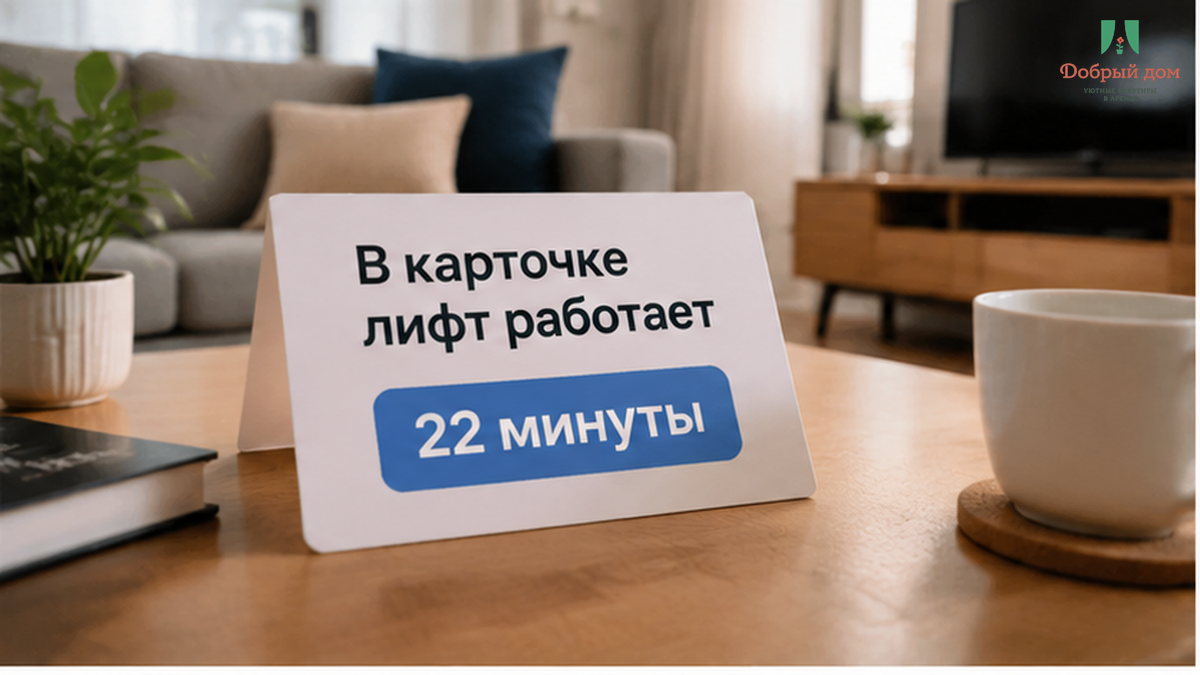
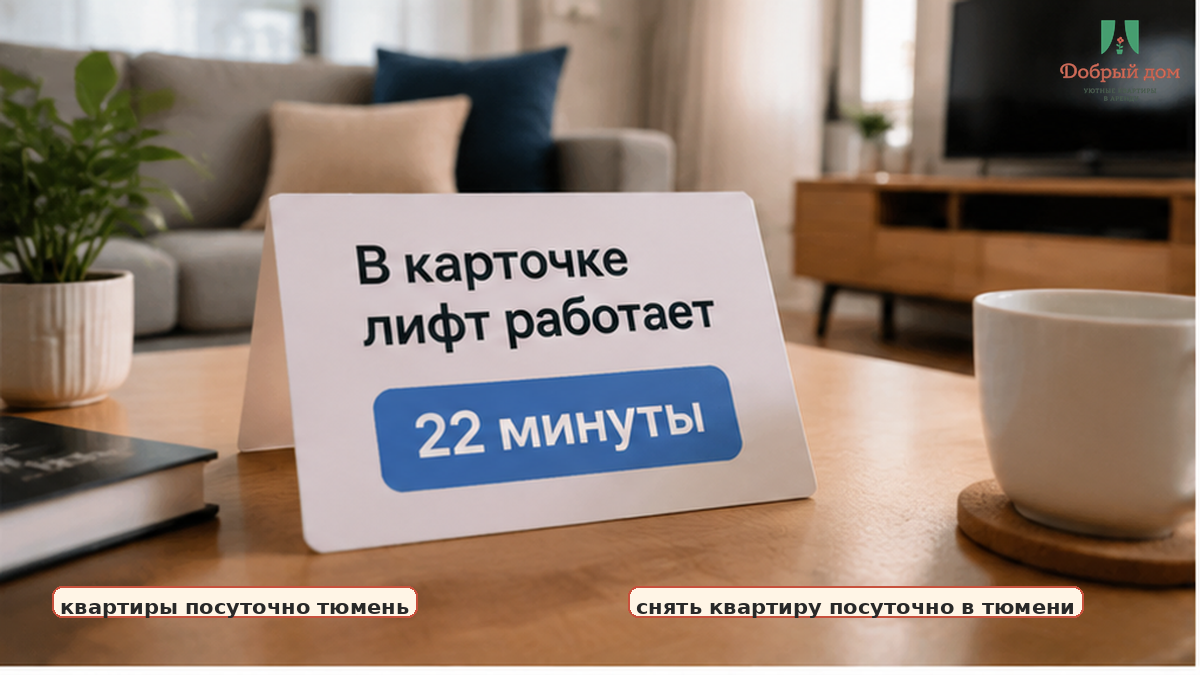
fix(publish): remove duplicate transport resolver; B37 interlinks and WP rubrics

Changed region(s): [[0.5242, 0.8711, 0.925, 0.9333], [0.0308, 0.8711, 0.37, 0.9333]]

diff --git a/memory/blog/articles/B37-posutochno-v-tyumeni-v-kartochke-lift-rabotaet-s-chemodanom-na-vosmoj/article.html b/memory/blog/articles/B37-posutochno-v-tyumeni-v-kartochke-lift-rabotaet-s-chemodanom-na-vosmoj/article.html
@@ -48,7 +48,7 @@
 
 <p>Вторая часть — живой человек в переписке. Не только код от сейфа и сухое «ключи внутри», а тот, кто отвечает на «что делать?» словами «делаем вот так». Именно это отличает посуточную квартиру от продажи проблем на короткий срок.</p>
 
-<p>В блоге «Доброго дома» мы уже писали о мелочах, которые меняют весь вечер: <a href="https://добрыйдом-72.рф/blog/rannee-zaselenie-i-pozdniy-vyezd/">о раннем заселении и позднем выезде</a>, <a href="https://добрыйдом-72.рф/blog/foto-kvartiry-i-realnost/">о фотографиях в объявлении и реальности</a>, <a href="https://добрыйдом-72.рф/blog/dokumenty-dlya-komandirovki/">о документах для командировки</a> и <a href="https://добрыйдом-72.рф/blog/kak-vybrat-kvartiru-posutochno-v-tyumeni/">о выборе квартиры посуточно в Тюмени</a>.</p>
+<p>В блоге «Доброго дома» мы уже писали о мелочах, которые меняют весь вечер: <a href="https://добрыйдом-72.рф/blog/rannij-zaezd-oplatili-v-9-10-u-dveri-uborka-do-14-00/">ранний заезд с чемоданом у двери</a>, <a href="https://добрыйдом-72.рф/blog/kod-dlya-zaseleniya-prislali-domofon-molchit-dvadcat-minut-u-podezda/">20 минут с чемоданом у подъезда</a>, <a href="https://добрыйдом-72.рф/blog/instrukciya-zaseleniya-posutochno-ne-tot-podezd/">35 минут с чемоданом у чужого подъезда</a> и <a href="https://добрыйдом-72.рф/blog/vyezd-v-12-00-poezd-v-16-30-kuda-det-chemodany-mezhdu/">чемоданы у подъезда между выездом и поездом</a>.</p>
 
 <p>Гость платит не просто за квадратные метры. Он платит за предсказуемость: чтобы написанное в карточке совпало с тем, что встретит его у подъезда, а при сбое рядом оказался человек, который возьмёт ситуацию на себя. <i>Сначала проверка. Потом перевод. Не наоборот.</i></p>
 

diff --git a/scripts/excalibur_blog_remote_transport.py b/scripts/excalibur_blog_remote_transport.py
@@ -292,36 +292,6 @@ def delete_remote_file(
             ftp.close()
 
 
-def resolve_publish_transport(env: dict[str, str]) -> str:
-    mode = transport_mode(env)
-    if mode == "ftp":
-        return "ftp"
-    port = int((env.get("FTP_PORT") or env.get("SSH_PORT") or "22").strip() or "22")
-    return "ftp" if port == 21 else "sftp"
-
-
-def remote_path(env: dict[str, str], remote_name: str) -> str:
-    root = (env.get("FTP_ROOT") or env.get("SSH_ROOT") or ".").strip() or "."
-    root = root.rstrip("/")
-    name = remote_name.lstrip("/")
-    if root in {".", ""}:
-        return name
-    return f"{root}/{name}"
-
-
-def _upload_text_ftp(env: dict[str, str], remote_name: str, data: bytes) -> str:
-    selected_root, _log = find_wp_root(env)
-    upload_bytes(env, remote_name, data, root=selected_root)
-    return remote_path(env, remote_name)
-
-
-def upload_text_file(env: dict[str, str], remote_name: str, data: bytes) -> str:
-    mode = resolve_publish_transport(env)
-    if mode == "ftp":
-        return _upload_text_ftp(env, remote_name, data)
-    raise RuntimeError("SFTP upload_text_file not implemented; set FTP_TRANSPORT=ftp for Timeweb")
-
-
 def cli_find_wp_root() -> int:
     import json
 
